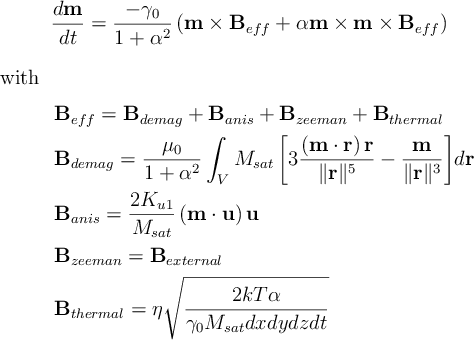
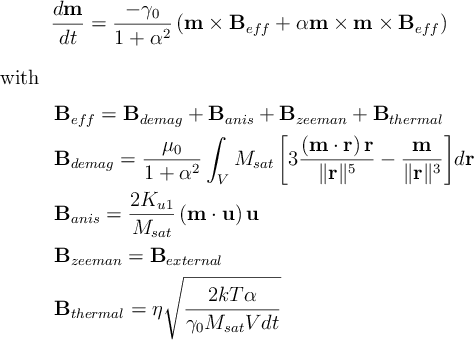
fixed formula

Changed region(s): [[0.443, 0.8235, 0.7089, 0.9706]]

diff --git a/tex/vinamax.tex b/tex/vinamax.tex
@@ -17,7 +17,7 @@ with
 &\mathbf{B}_{demag}=\frac{\mu_0}{1+\alpha^2}\int_V{M_{sat}\left[3\frac{\left(\mathbf{m}\cdot\mathbf{r}\right)\mathbf{r}}{\|\mathbf{r}\|^5}-\frac{\mathbf{m}}{\|\mathbf{r}\|^3}\right]}d\mathbf{r}\\
 &\mathbf{B}_{anis}=\frac{2K_{u1}}{M_{sat}}\left(\mathbf{m}\cdot\mathbf{u}\right)\mathbf{u}\\
 &\mathbf{B}_{zeeman}=\mathbf{B}_{external}\\
-&\mathbf{B}_{thermal}=\eta\sqrt{\frac{2kT\alpha}{\gamma_0 M_{sat} dxdydzdt}}\\
+&\mathbf{B}_{thermal}=\eta\sqrt{\frac{2kT\alpha}{\gamma_0 M_{sat} Vdt}}\\
 \end{aligned}
 \end{eqnarray*}
 
